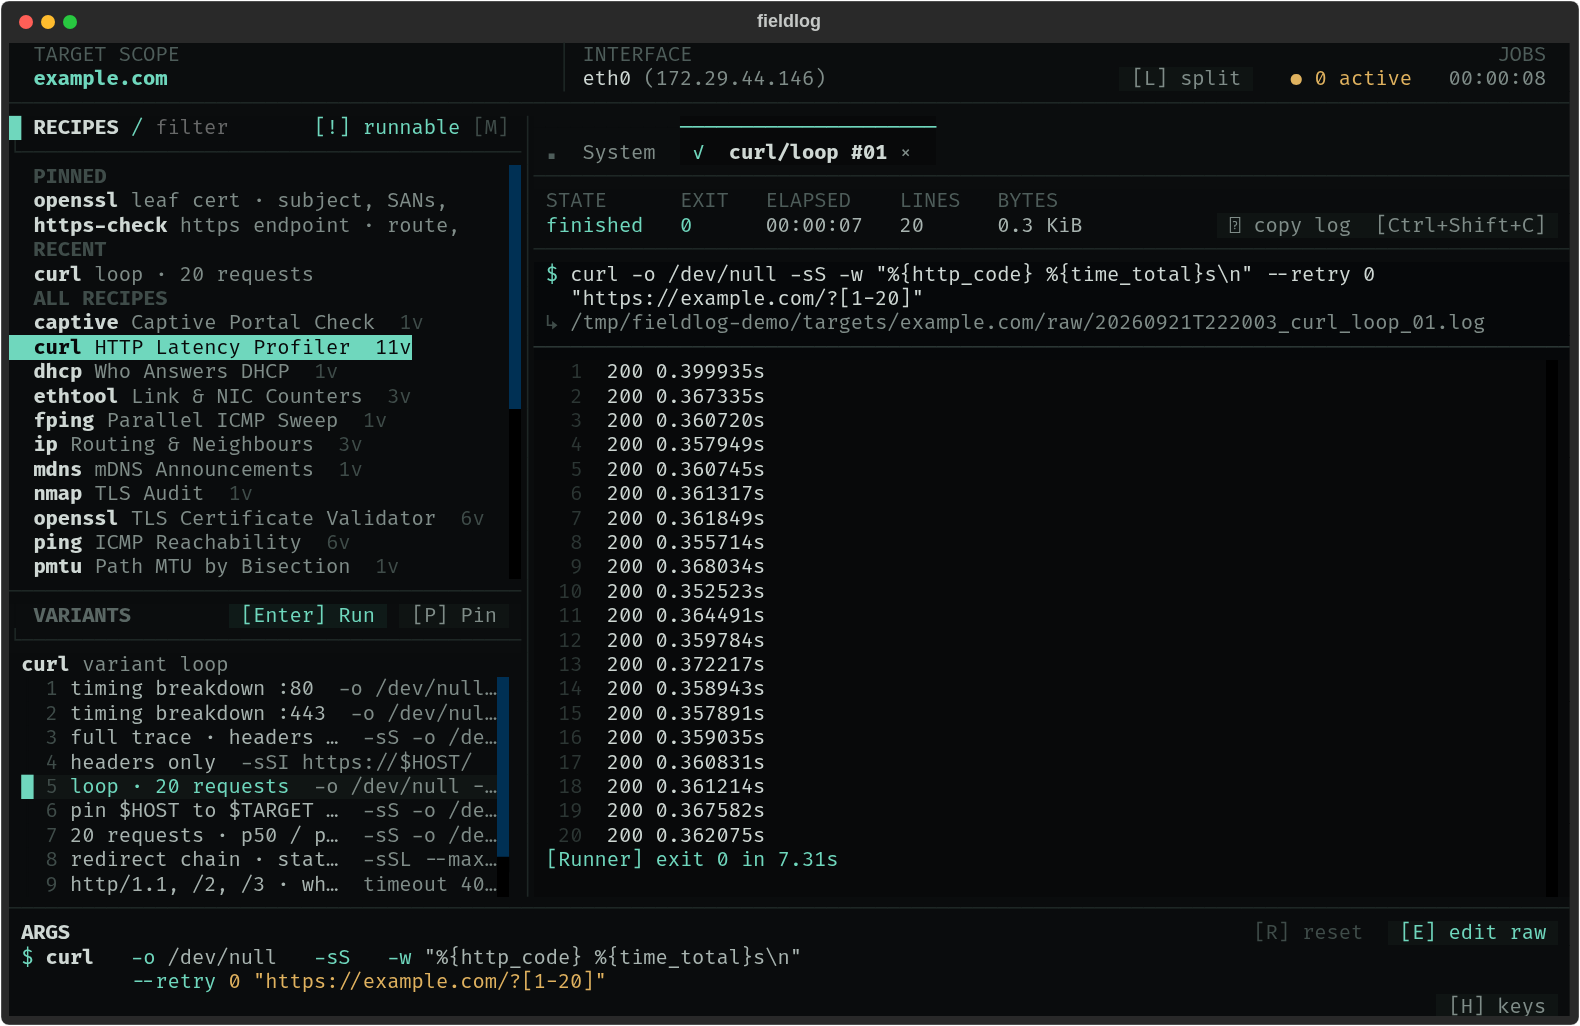
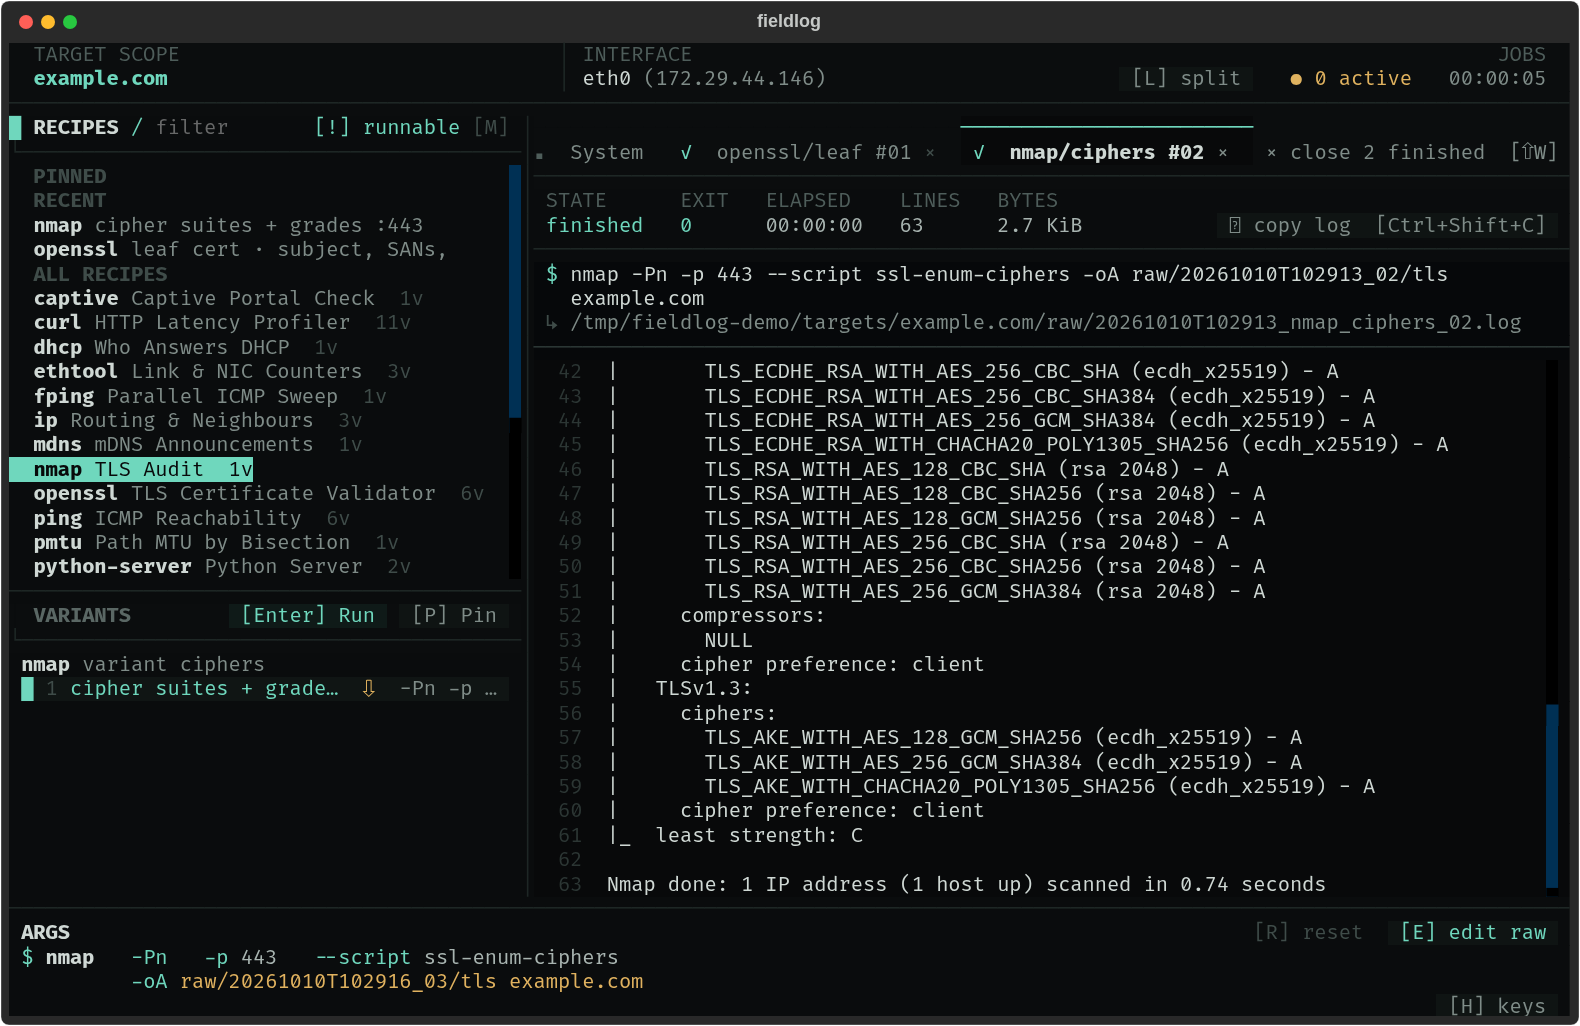
docs: the README screenshot shows a TLS audit, not curl
A real run: openssl/leaf then nmap/ciphers against example.com, with the
cipher-suite tree and its grades, two finished tabs and the command in the
ARGS band. The old picture was a column of curl timings. The workspace is a
neutral /tmp path, so nothing of the machine that took it is in the image.

diff --git a/README.md b/README.md
@@ -10,7 +10,7 @@ fieldlog runs the command, streams the output, and files the log plus a run
 record under `targets/<name>/`. The archive is the point: a week later you can
 see exactly what was run against a host, when, with what result.
 
-![The fieldlog TUI: the recipe tree and a tool's variants on the left, a finished curl run on the right, and the command it ran in the ARGS band](https://raw.githubusercontent.com/proverbial-toast/fieldlog/main/fieldlog-tui.png)
+![The fieldlog TUI: the recipe tree and a tool's variants on the left, a finished nmap TLS cipher audit on the right, and the command it ran in the ARGS band](https://raw.githubusercontent.com/proverbial-toast/fieldlog/main/fieldlog-tui.png)
 
 ```bash
 fieldlog run ping/quick 192.168.1.20
